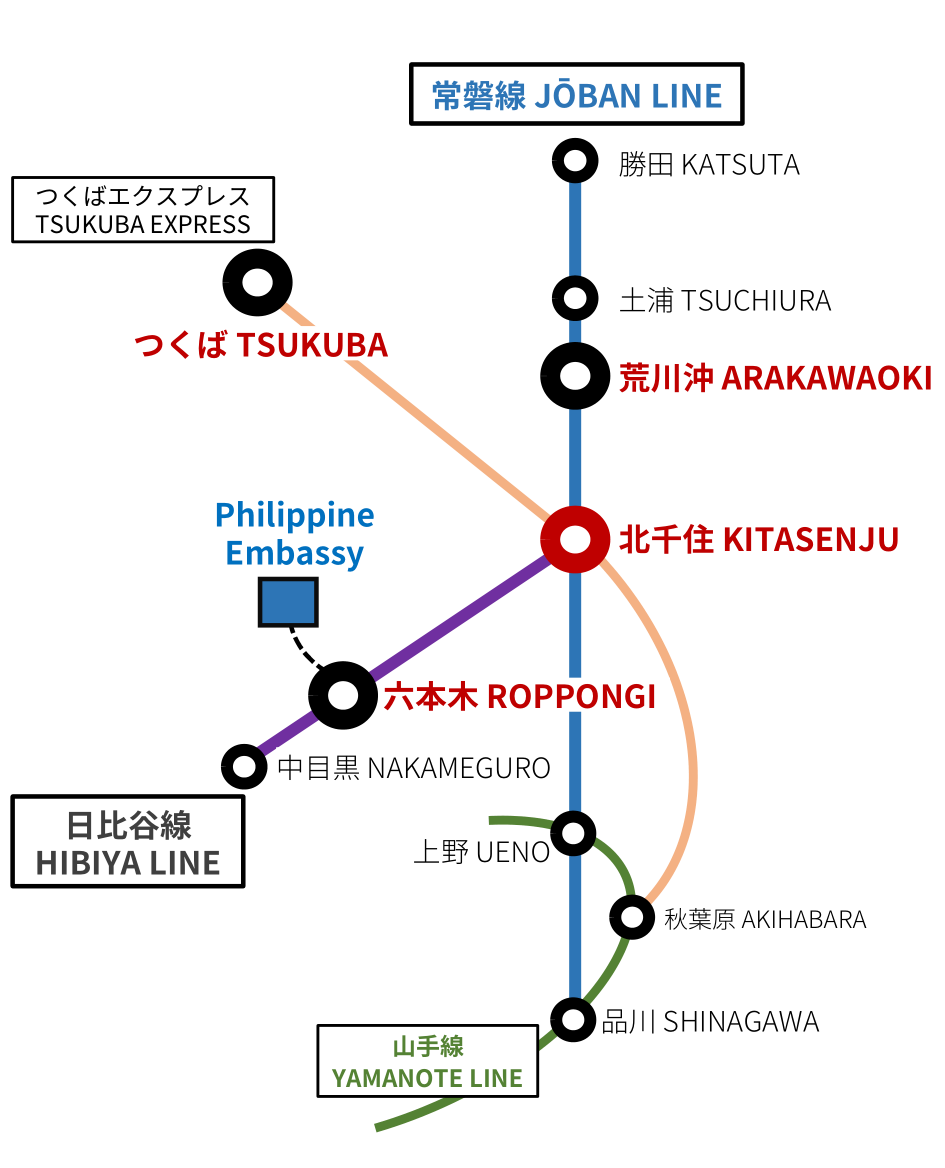
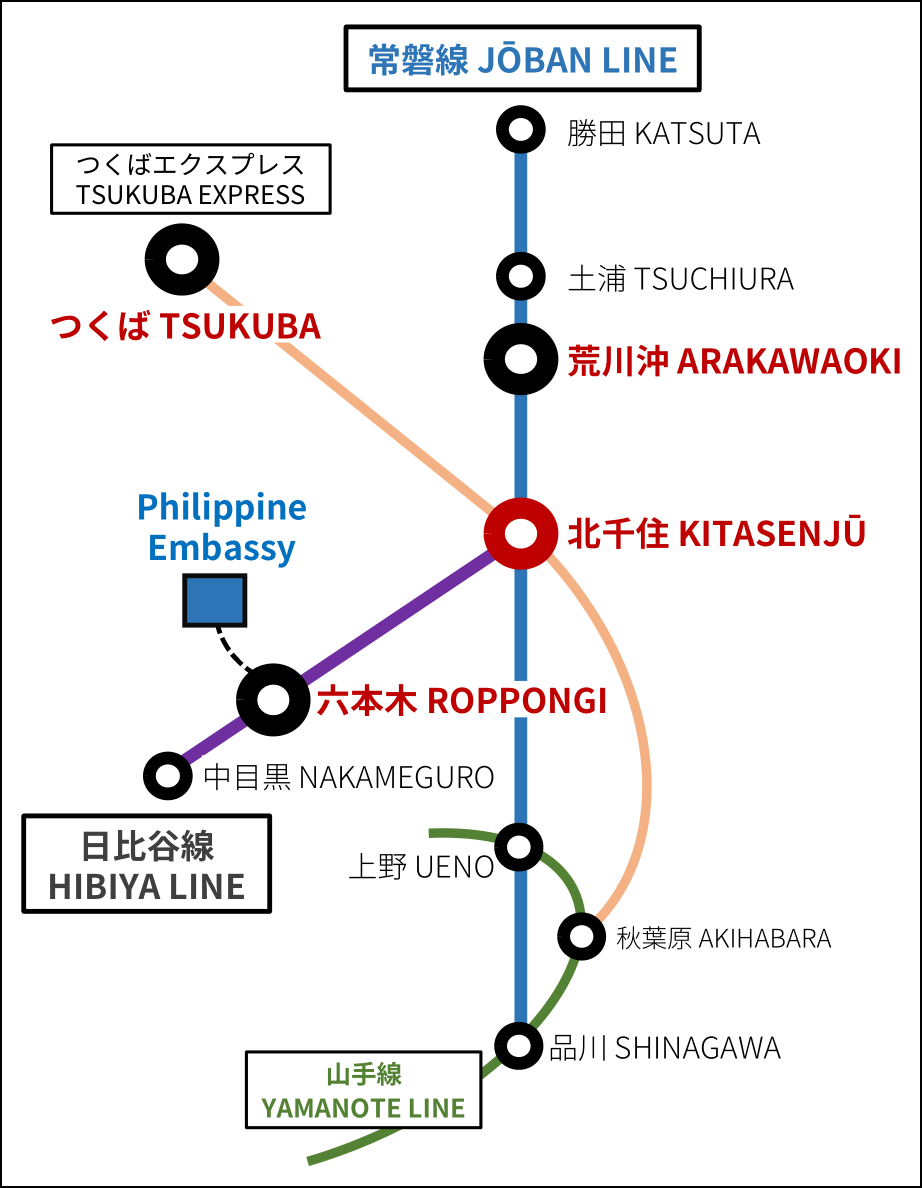
edit

Changed region(s): [[0.0, 0.0, 1.0, 1.0], [0.9718, 0.0, 1.0, 0.0308], [0.0, 0.0, 0.0304, 0.0308]]

diff --git a/content/posts/how to go to philippine embassy in tokyo from tsuchiura or tsukuba/index.md b/content/posts/how to go to philippine embassy in tokyo from tsuchiura or tsukuba/index.md
@@ -18,18 +18,18 @@ tags:
 - Yamanote Line
 chōon: Ō ō Ū ū
 ---
-See the related [How to renew your Philippine passport in Japan (Tokyo)](https://timog.org/how-to-renew-philippine-passport-in-japan-tokyo/).
+Related: [How to renew your Philippine passport in Japan (Tokyo)](https://timog.org/how-to-renew-philippine-passport-in-japan-tokyo/)
 
 1. Get on the train at Tsuchiura or Arakawaoki Station (Jōban Line) going to Ueno or Shinagawa; or Tsukuba Station (Tsukuba Express Line) going to Akihabara.
-2. Get off at Kitasenju Station.
+2. Get off at Kitasenjū Station.
 3. Ride the train on the Hibiya Line going to Nakameguro Station.
 4. Get off at Roppongi Station and out through the No.3 exit.
 5. Walk to the Philippine Embassy (Consular Section).
 
-![Jōban Line or the Tsukuba Express Line to Hibiya Line](joban-tsukuba-express-hibiya-yamanote-line-to-philippine-embassy-tokyo.png "From either Jōban or Tsukuba Express Line, get off at Kitasenju and change to the Hibiya Line going to Nakameguro.")
+![Jōban Line or the Tsukuba Express Line to Hibiya Line](joban-tsukuba-express-hibiya-yamanote-line-to-philippine-embassy-tokyo.png "From either Jōban or Tsukuba Express Line, get off at Kitasenjū and change to the Hibiya Line going to Nakameguro.")
 
 1. Sumakay sa tren sa Tsuchiura o Arakawaoki Station (Jōban Line) papuntang Ueno o Shinagawa; o sa Tsukuba Station (Tsukuba Express Line) papuntang Akihabara.
-2. Bumaba sa Kitasenju Station.
+2. Bumaba sa Kitasenjū Station.
 3. Sumakay sa tren sa Hibiya Line papuntang Nakameguro Station.
 4. Bumaba sa Roppongi Station at lumabas mula sa No.3 exit.
 5. Maglakad papunta sa Philippine Embassy (Consular Section).
